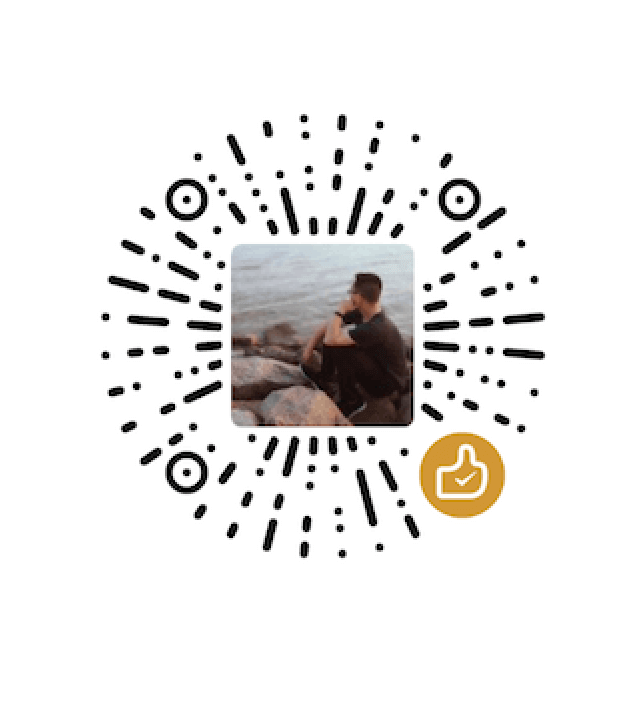
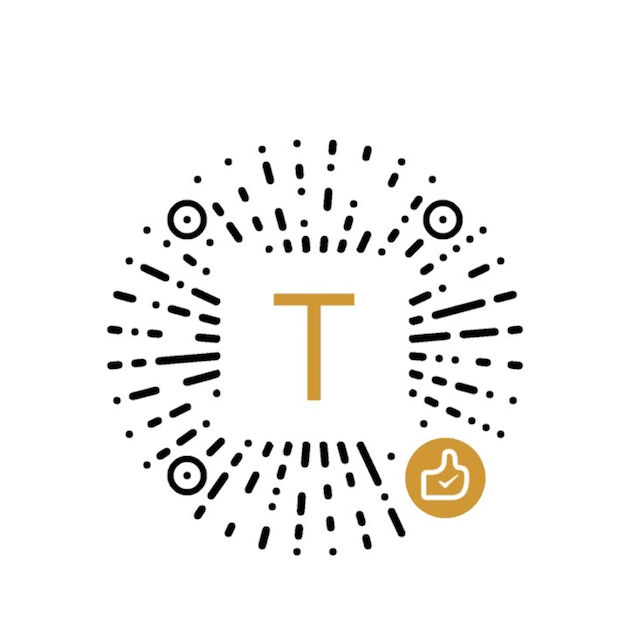
update default donate qrcode & some tips

diff --git a/source/js/SimpleCore.js b/source/js/SimpleCore.js
@@ -34,7 +34,7 @@ var SimpleCore = {
         $(document).on('click', '.btn-sns-qr', function (e) {
             e.preventDefault();
             if (SimpleCore.snsQRCode != '') {
-                SimpleCore.alert('来不及解释了赶紧上车','<img style="width:180px;background:#fff;" src="' + SimpleCore.snsQRCode + '">');
+                SimpleCore.alert('同性聊天交友请上车','<img style="width:180px;background:#fff;" src="' + SimpleCore.snsQRCode + '">');
             } else {
                 SimpleCore.alert('未开通自定义功能','<h4 style="text-align: center;margin: 0">联系博主试试看 ：）</h4>');
             }
@@ -42,7 +42,7 @@ var SimpleCore = {
         $(document).on('click', '.btn-thumbs-up', function (e) {
             e.preventDefault();
             if (SimpleCore.donateImg != '') {
-                SimpleCore.alert('点个赞，你高兴就好','<img style="width:180px;background:#fff;" src="' + SimpleCore.donateImg + '">');
+                SimpleCore.alert('随意打赏，谢谢','<img style="width:180px;background:#fff;" src="' + SimpleCore.donateImg + '">');
             } else {
                 SimpleCore.alert('未开通自定义功能','<h4 style="text-align: center;margin: 0">联系博主试试看 ：）</h4>');
             }
